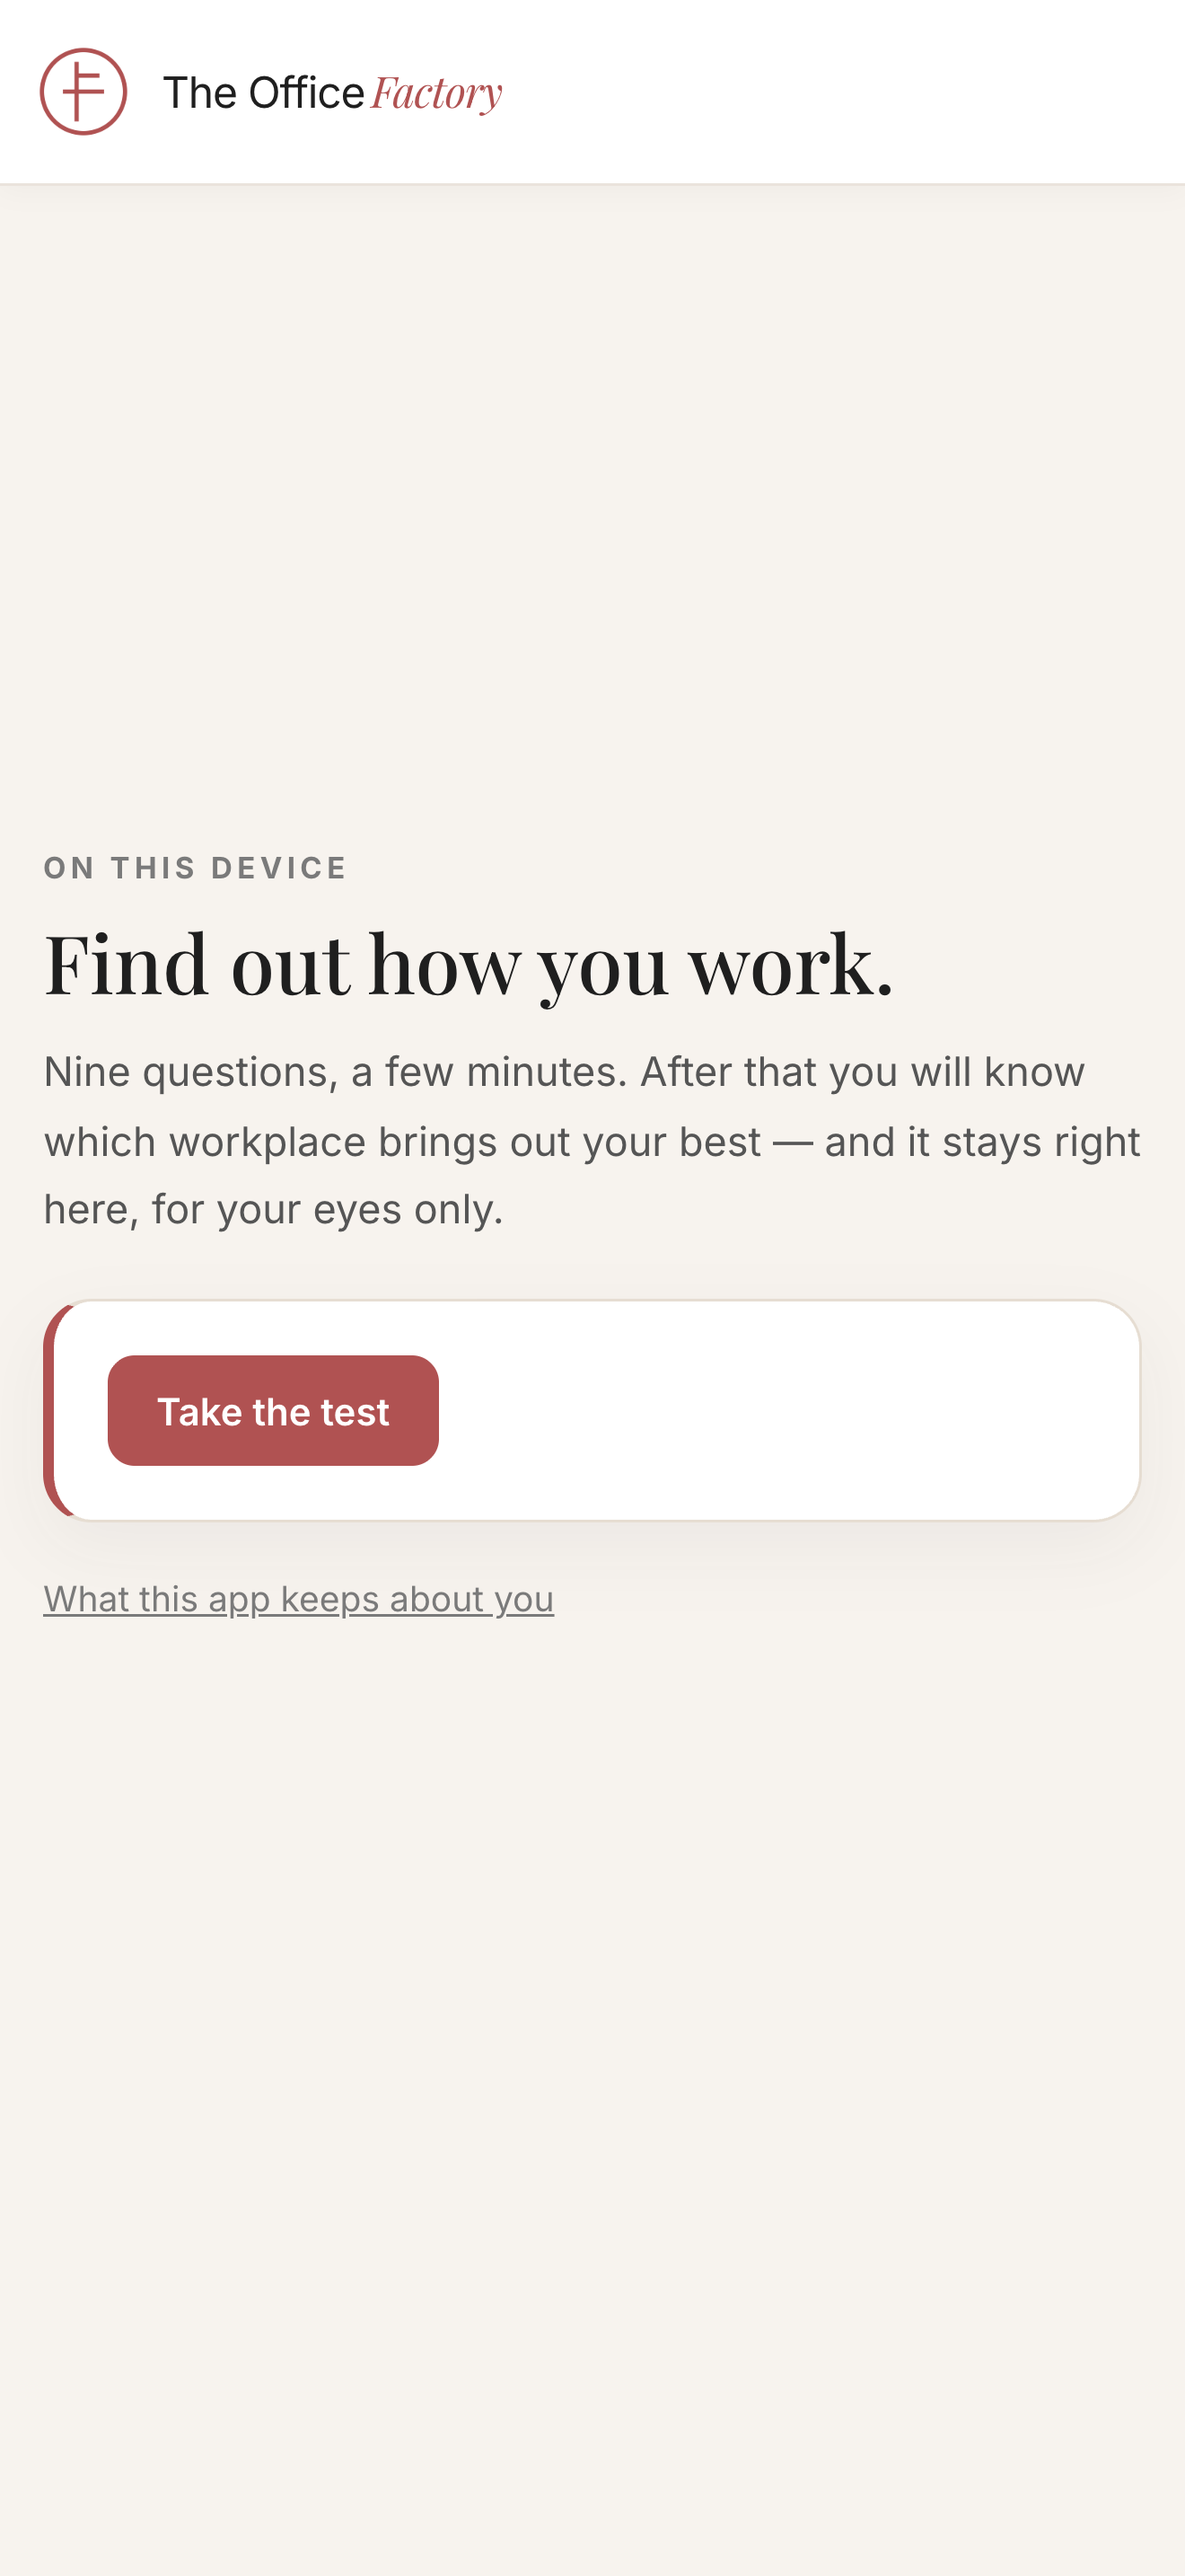
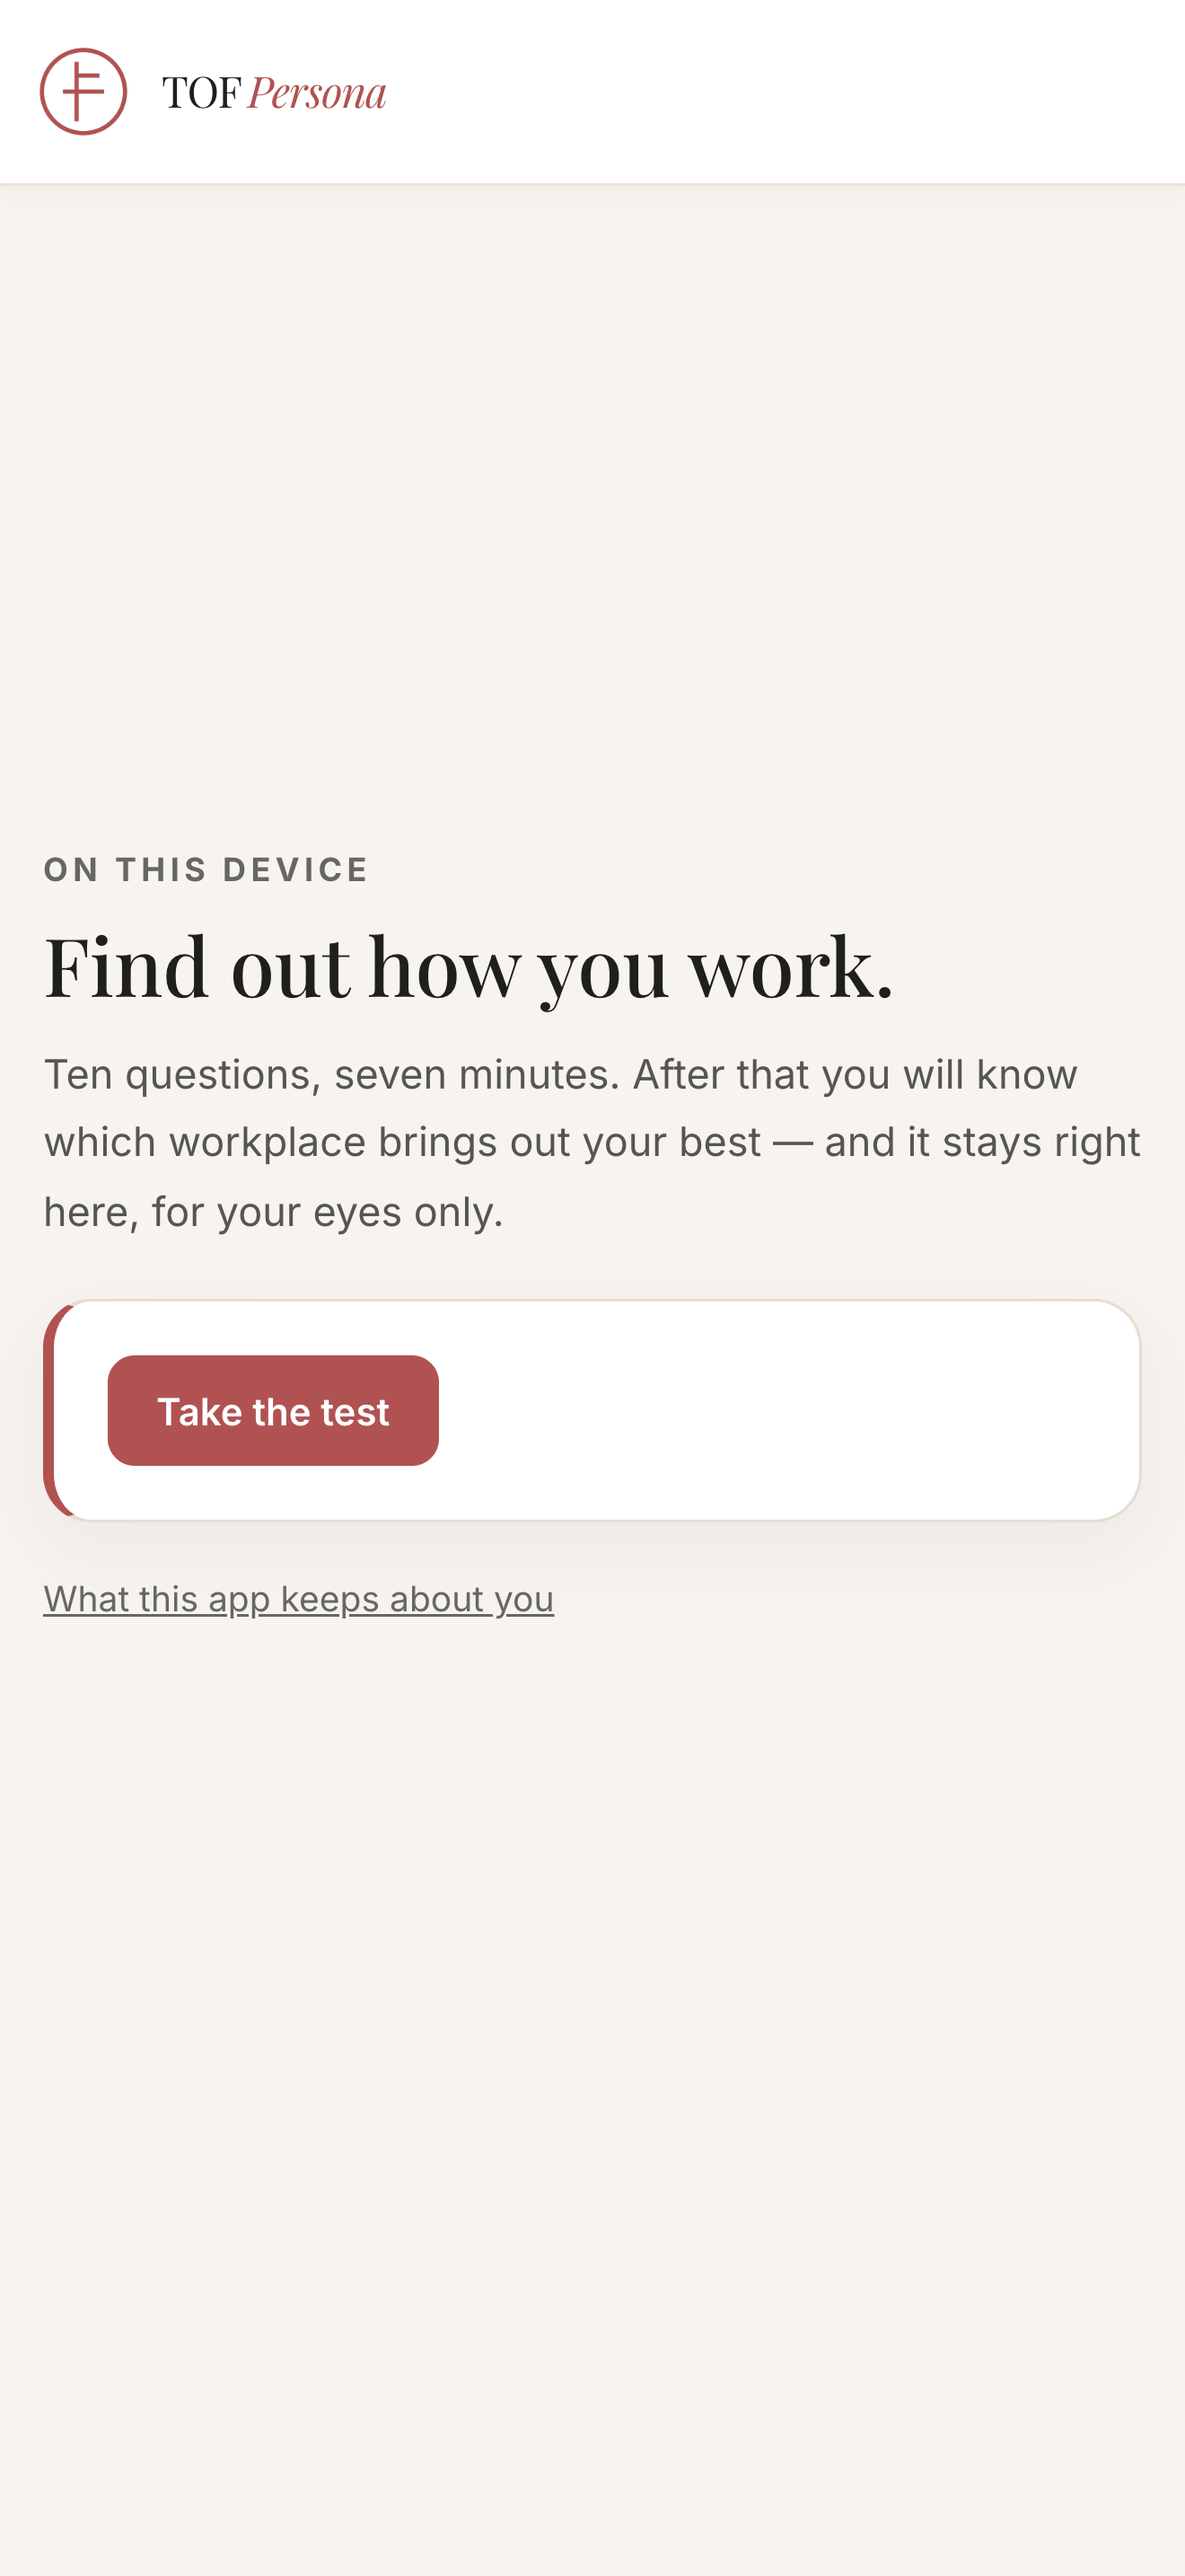
chore(release): 1.0.7 (iOS build 9, versionCode 7)
Vraag 10 werkomgeving, regel 'Geluid om je heen', tien vragen / zeven
minuten. Winkelafbeeldingen opnieuw gerenderd (het script loopt nu ook
vraag 10 door). AAB en iOS-archief gebouwd en gecontroleerd; niets
geüpload. Notitie in docs/release-1.0.7.md.

diff --git a/docs/release-1.0.7.md b/docs/release-1.0.7.md
@@ -1,0 +1,80 @@
+# Release 1.0.7: tien vragen, en geluid om je heen
+
+Gebouwd op 16 november 2026. iOS **1.0.7 (build 9)**, Android **1.0.7 (versionCode 7)**.
+Niets geüpload en niets ingediend.
+
+## Voorwaarde
+
+1.0.7 bevat alles van 1.0.6, en 1.0.6 alles van 1.0.5.
+- **Is 1.0.6 nog niet ingediend?** Sla hem dan over en dien direct 1.0.7 in.
+- **Loopt er bij Apple of Google nog een beoordeling?** Wacht dan tot die klaar is. Een nieuwe indiening tijdens een lopende beoordeling herstart die beoordeling.
+
+## Wat er in deze versie zit
+
+Sinds 1.0.6 (`b86d28d`) staan deze wijzigingen op `main`. Wat een app-gebruiker merkt:
+
+- **Vraag 10: werkomgeving.** Na de negen basisvragen volgt "Je hebt een uur om iets lastigs af te maken. Waar lukt dat het best?", met vier antwoorden: stilte, geroezemoes, reuring, of maakt weinig uit. De teller loopt nu tot 10 / 10. De vraag telt niet mee in de werkstijl.
+- **"Geluid om je heen"** in het profiel, onder Werkplek, vóór "Wat jou naar kantoor trekt". Die regel verschijnt alleen als je antwoord tegen je werkstijl in gaat: een Denker of Presteerder die reuring kiest, of een Verbinder of Vernieuwer die stilte kiest.
+- **Tien vragen, zeven minuten.** Het startscherm en de intro zeggen nu "Tien vragen, zeven minuten" (EN "Ten questions, seven minutes").
+- **Het antwoord gaat mee naar het team.** Bij "Profiel inbrengen" gaat het antwoord als `pk` mee in de link. De website bewaart het nog niet; dat komt met de Supabase-ronde. Oude links blijven werken.
+- Ook mee sinds 1.0.6: "Waarom dit team komt" toont elke werkstijl (`868859c`) en de zinnen over de volle breedte (`ef4d1f6`). Dat zijn alleen wijzigingen in de webversie.
+
+## Bouw en controle
+
+| Stap | Uitslag |
+|---|---|
+| `npm run build:app` | Compiled successfully. `npx cap sync` naar `ios/` en `android/`. Publiek pad `t.p="/"` |
+| Tests | 4 suites, 32/32 geslaagd |
+| Inhoud van de bundel | "Tien vragen, zeven minuten", "Ten questions, seven minutes", "Geluid om je heen" en de vier antwoorden staan erin, ook in `ios/` en `android/` |
+| Android `./gradlew bundleRelease` | BUILD SUCCESSFUL. `jarsigner -verify` → "jar verified". De manifest in de AAB noemt 1.0.7. De bundel in de AAB bevat de nieuwe teksten |
+| iOS `xcodebuild … archive` | ARCHIVE SUCCEEDED. Info.plist: 1.0.7 / 9. De bundel in het archief bevat de nieuwe teksten |
+
+**Android:** `android/app/build/outputs/bundle/release/app-release.aab` (4,98 MB, 16 nov 2026 15:10). Getekend met de bestaande upload-keystore. Dit bestand vervangt de AAB van 1.0.6 op dezelfde plek.
+
+**iOS:** het archief staat in `/tmp/tof-archive-107.xcarchive`. Dat verschijnt niet in de Organizer van Xcode. Je kunt het op twee manieren uploaden: zelf opnieuw archiveren in Xcode (stappen hieronder), of mij vragen het vanaf de opdrachtregel te uploaden met `xcodebuild -exportArchive`, zoals bij 1.0.1 en 1.0.2.
+
+## "Wat is er nieuw" / release-opmerkingen
+
+**Voorstel, nog goed te keuren door Judith.** Hooguit 170 tekens:
+
+- **NL** (152 tekens):
+  Nieuw: een tiende vraag over hoeveel geluid je nodig hebt om goed te werken. Gaat je antwoord tegen je werkstijl in, dan zie je dat terug in je profiel.
+- **EN** (141 tekens):
+  New: a tenth question about how much sound you need to work well. If your answer goes against your working style, your profile now tells you.
+
+Google wil de opmerkingen per taal tussen taaltags:
+
+```
+<nl-NL>
+Nieuw: een tiende vraag over hoeveel geluid je nodig hebt om goed te werken. Gaat je antwoord tegen je werkstijl in, dan zie je dat terug in je profiel.
+</nl-NL>
+<en-US>
+New: a tenth question about how much sound you need to work well. If your answer goes against your working style, your profile now tells you.
+</en-US>
+```
+
+## Samen met deze versie
+
+- **Storeteksten:** neem de nieuwe teksten over uit `tof-marketingteam/content/storeteksten-persona-app.md` ("tien vragen, zeven minuten"). Bij Apple zijn de ondertitel en de omschrijving versiegebonden, dus die gaan mee met deze inzending. De promotietekst en de Google-teksten kun je los aanpassen, het liefst als 1.0.7 live staat.
+- **Notities voor de beoordelaar:** `docs/store-teksten.md` §7 zegt nu "ten questions".
+- **Website persona-tool.nl:** plak `tof-marketingteam/content/plakklaar-lovable-2026-11-16-tien-vragen.md` als 1.0.7 live staat.
+- **Winkelafbeeldingen: opnieuw gemaakt** (NL en EN, 1320 × 2868, `store-assets/screenshots/{nl,en}/`).
+  - De oude `1-start` toonde nog "Negen vragen, een paar minuten" en het oude woordmerk "The Office Factory". De nieuwe toont "Tien vragen, zeven minuten" en "TOF Persona".
+  - Het script `make-store-screenshots.mjs` doorloopt nu ook vraag 10.
+  - Vervang in App Store Connect en Play Console alle drie de beelden per taal. Ook `3-profiel` en `4-personas` zijn opnieuw gerenderd, met het huidige woordmerk.
+  - De oude beelden staan als reservekopie in de kladmap van de sessie (`oude-screenshots/`).
+  - **Let op:** op `3-profiel` staat bovenaan "Dit is je profiel, op basis van je negen antwoorden." / "…based on your nine answers." Dat klopt inhoudelijk (vraag 10 telt niet mee in de werkstijl), maar het kan vreemd lezen naast "Tien vragen". Zie de vraag aan Judith.
+
+## Stappen voor Judith
+
+### Apple
+1. Open `ios/App/App.xcworkspace` in Xcode.
+2. Kies **Any iOS Device (arm64)** en daarna **Product → Archive**.
+3. Organizer: **Distribute App → App Store Connect → Upload**. Het buildnummer blijft 9.
+4. App Store Connect: maak **versie 1.0.7** aan, kies build **1.0.7 (9)**, plak de NL- en EN-tekst bij "Wat is er nieuw" en neem de nieuwe ondertitel en omschrijving over.
+5. Dien in via **Add for Review**. Bij een eerdere afwijzing loopt het via Distribution → App Review → **Resubmit**.
+
+### Google Play
+1. Play Console → **Productie → Nieuwe release maken** → upload `app-release.aab`.
+2. Plak de release-opmerkingen met de taaltags.
+3. **Opslaan**, daarna **Publicatieoverzicht → wijzigingen indienen voor beoordeling**.
